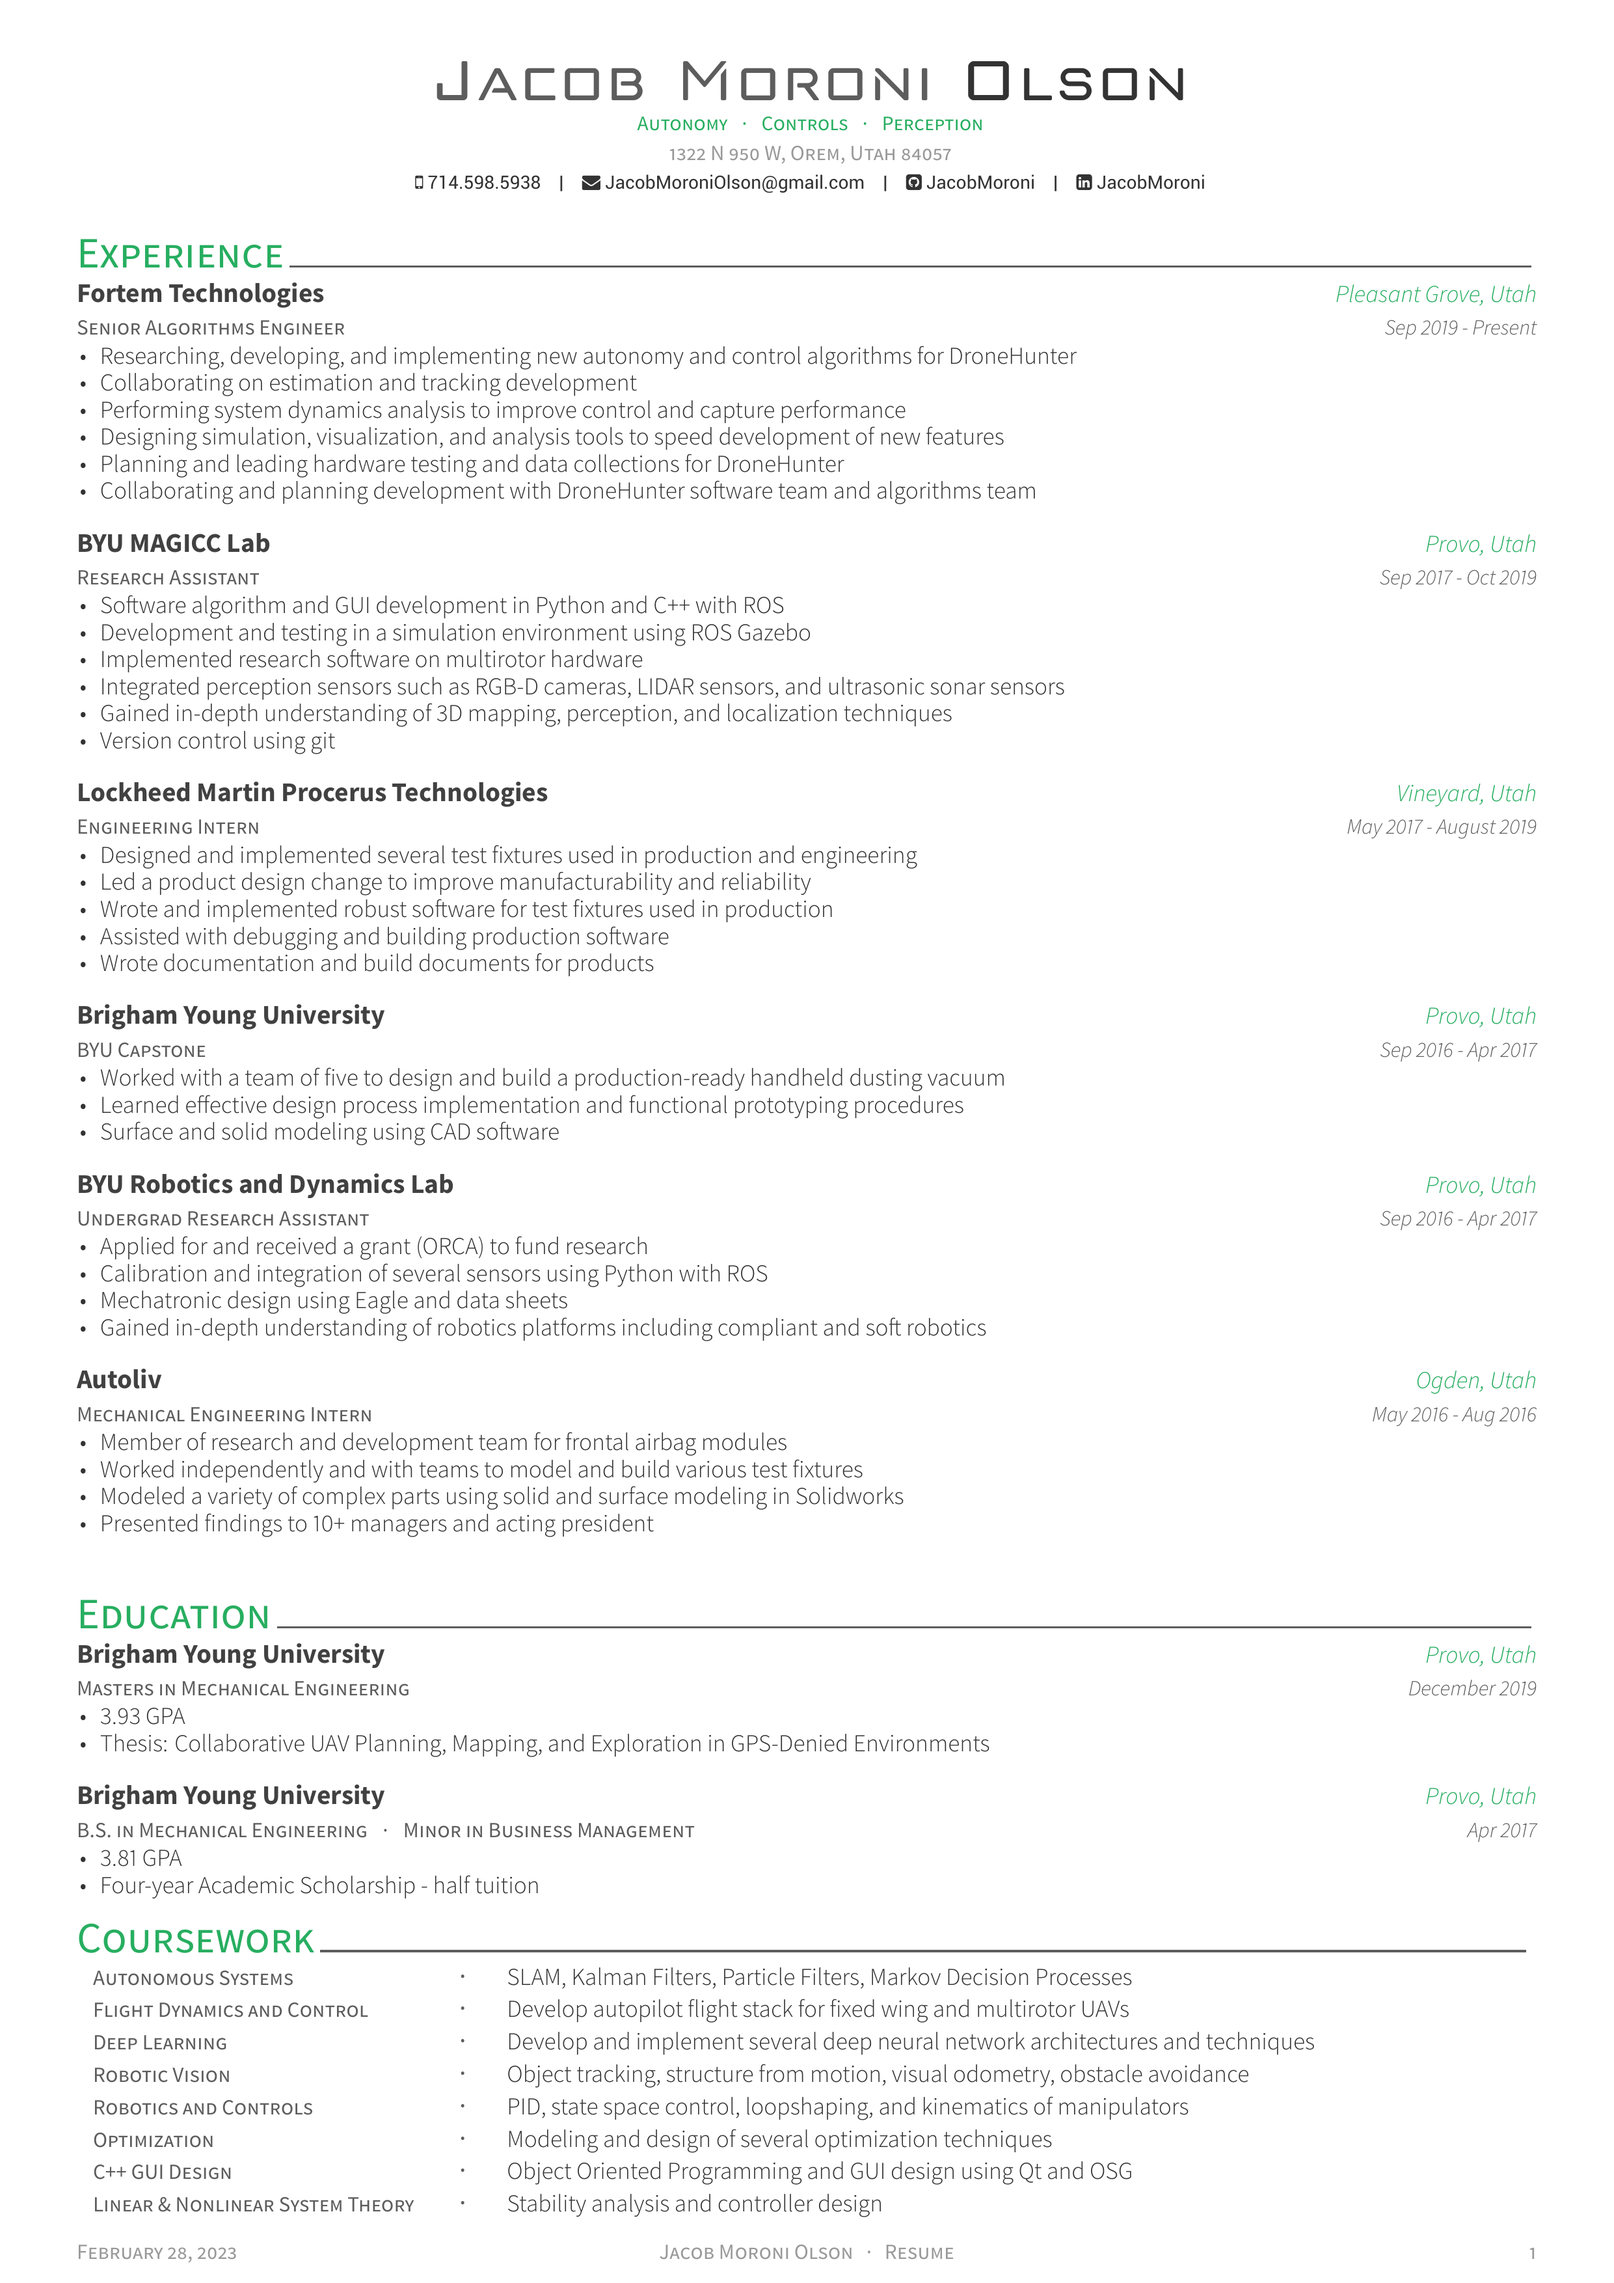
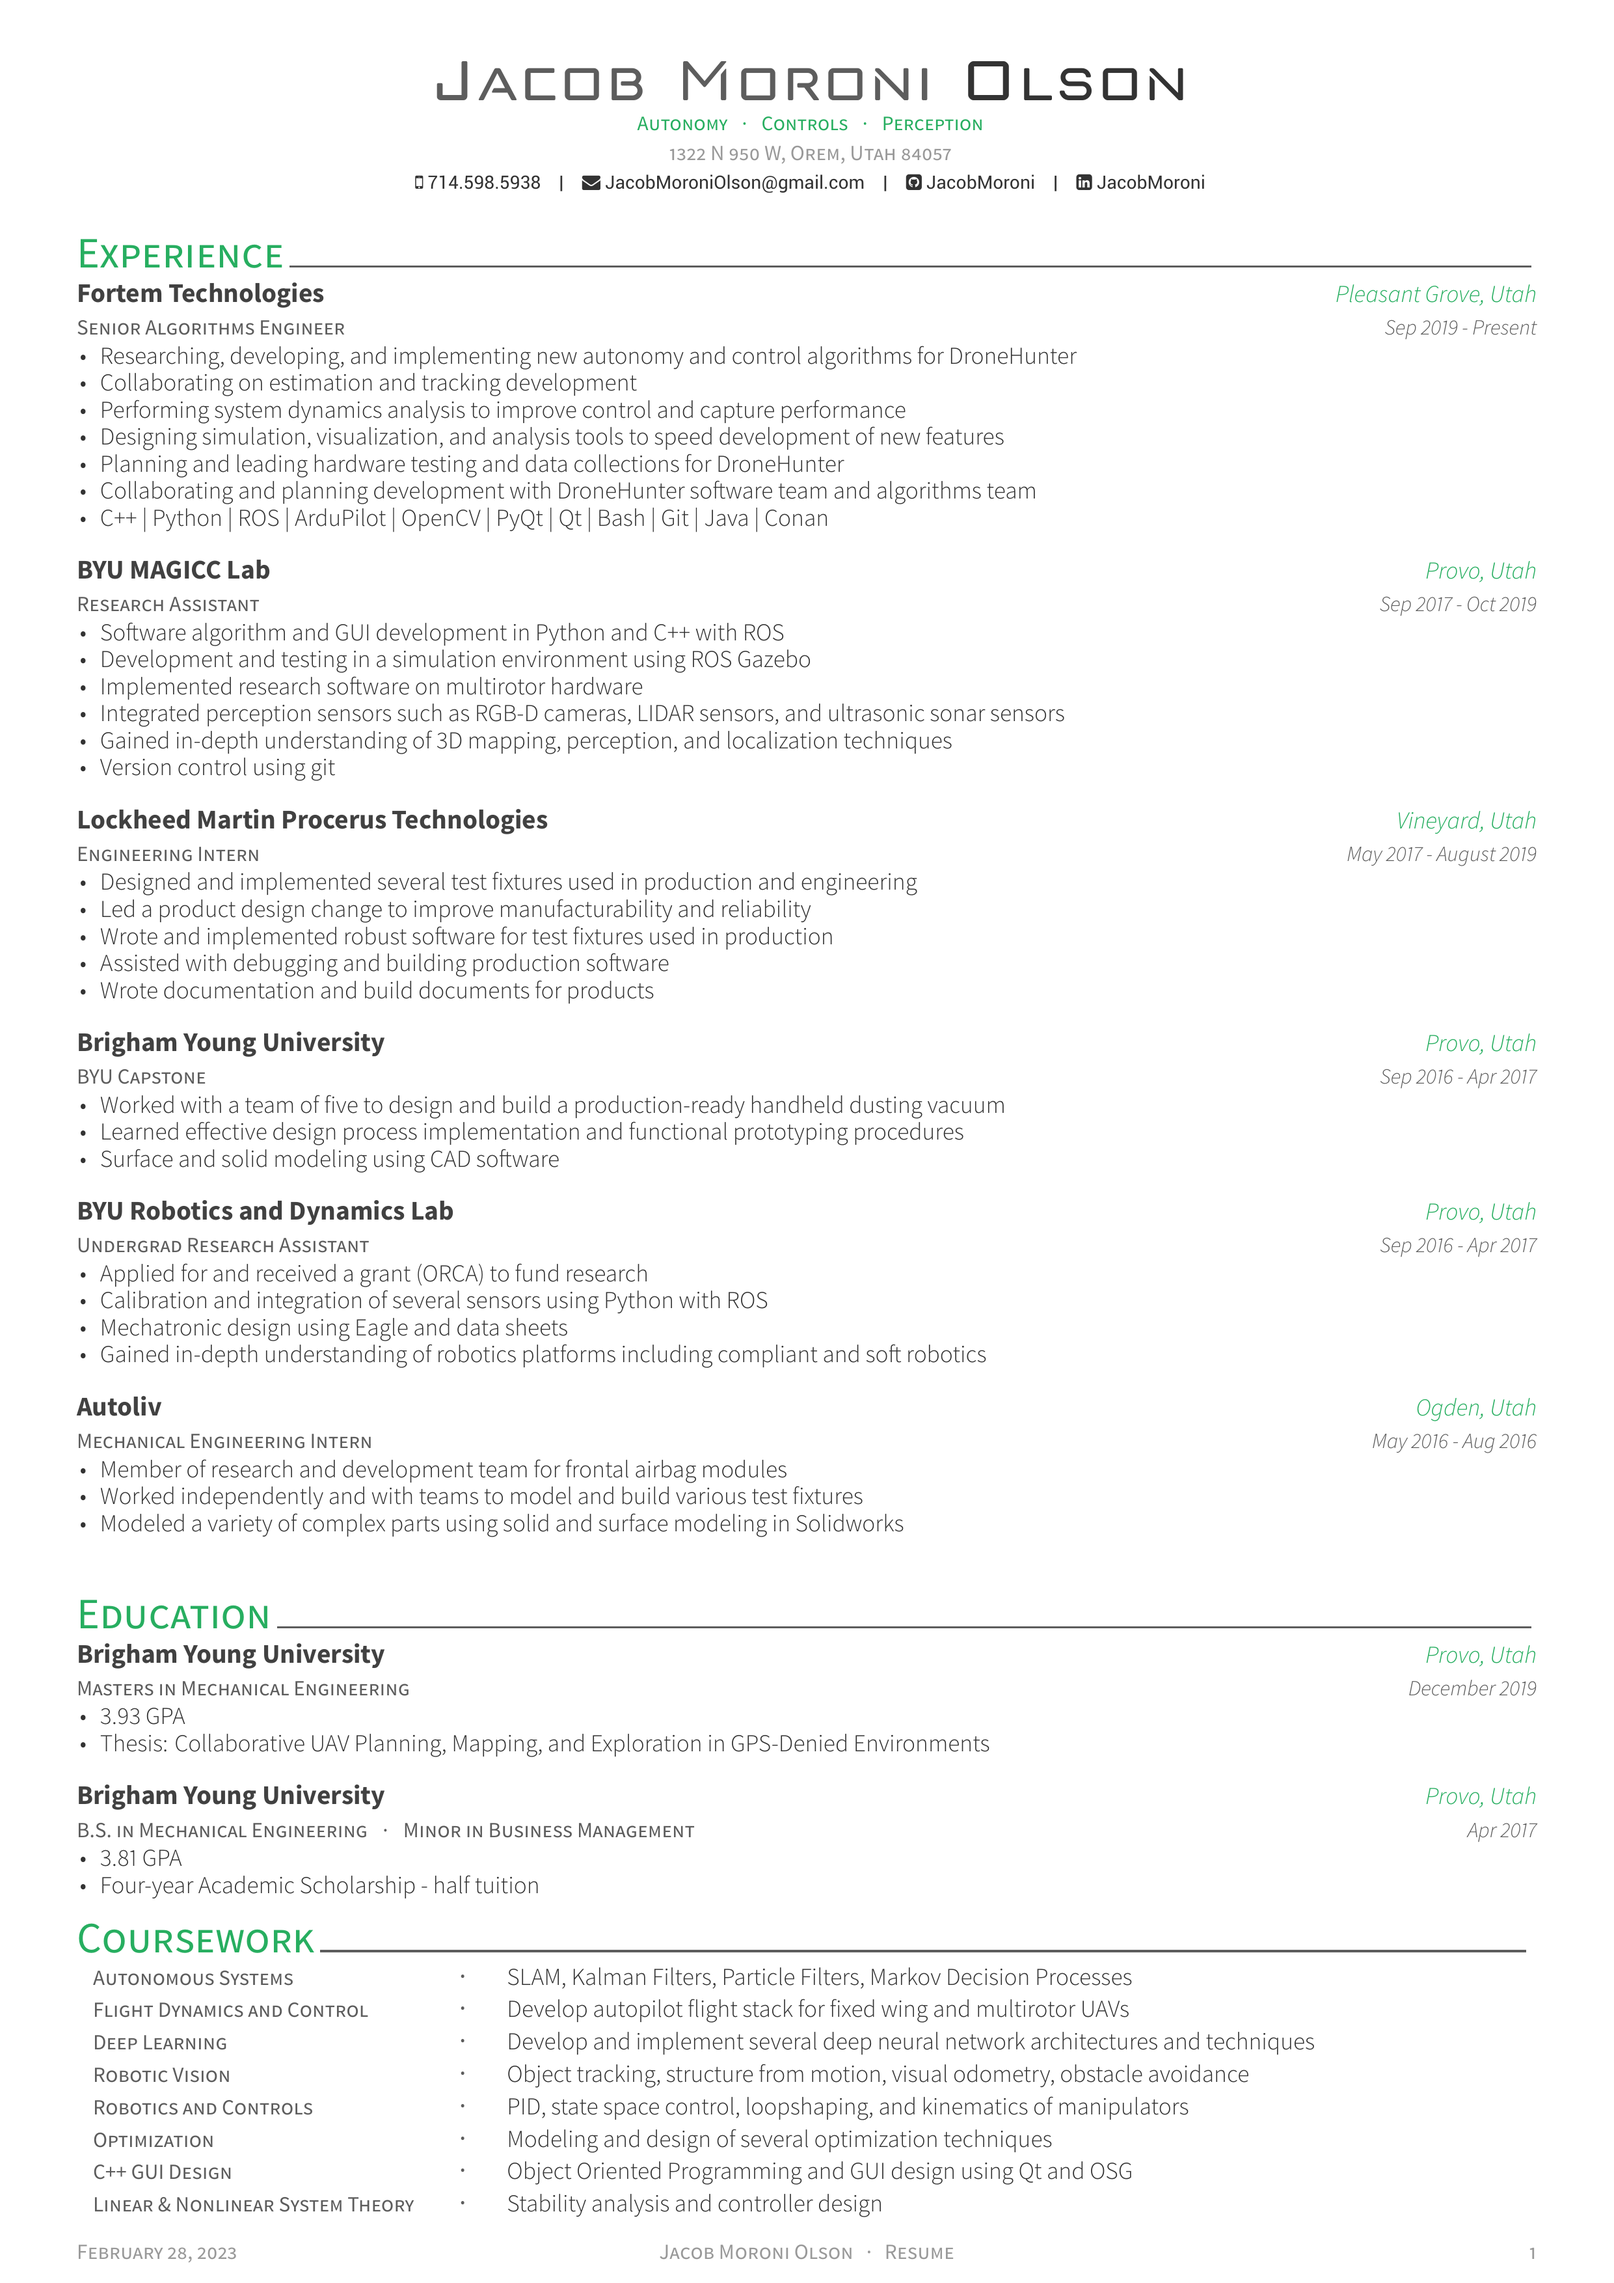
updated

diff --git a/documents/resume/experience.tex b/documents/resume/experience.tex
@@ -22,6 +22,7 @@
       \item{Designing simulation, visualization, and analysis tools to speed development of new features}
       \item{Planning and leading hardware testing and data collections for DroneHunter}
       \item{Collaborating and planning development with DroneHunter software team and algorithms team}
+      \item{C++ | Python | ROS | ArduPilot | OpenCV | PyQt | Qt | Bash | Git | Java | Conan}
     \end{cvitems}
   }
 
@@ -113,7 +114,6 @@
         \item {Member of research and development team for frontal airbag modules}
         \item {Worked independently and with teams to model and build various test fixtures}
         \item {Modeled a variety of complex parts using solid and surface modeling in Solidworks}
-        \item {Presented findings to 10+ managers and acting president}
       \end{cvitems}
     }
 
